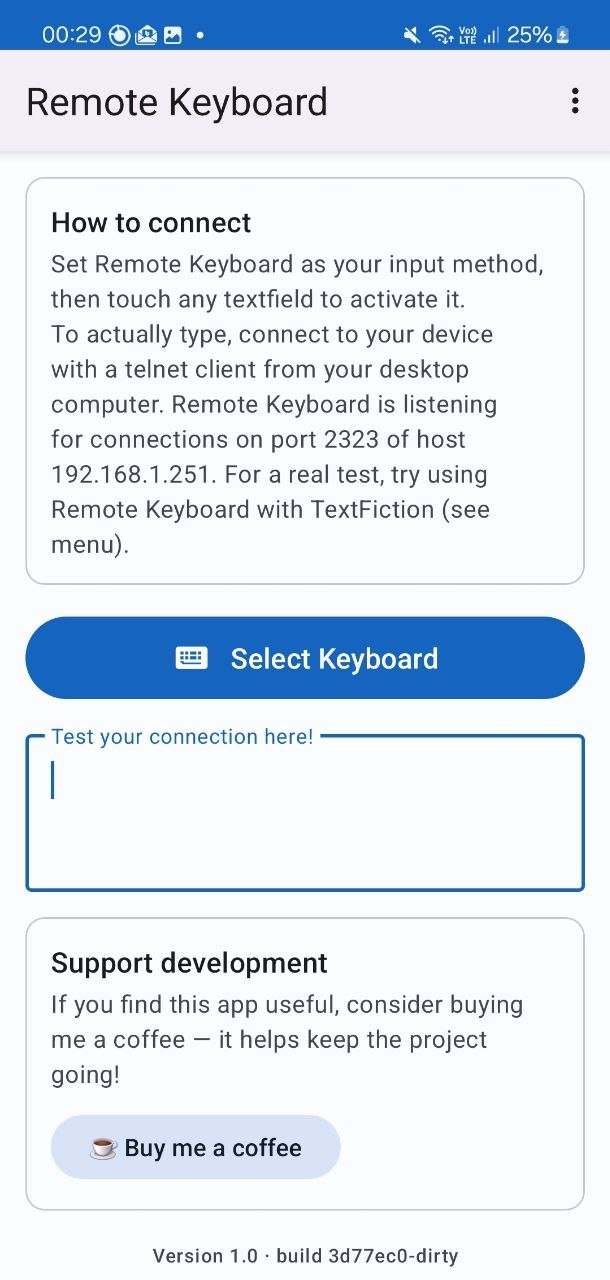
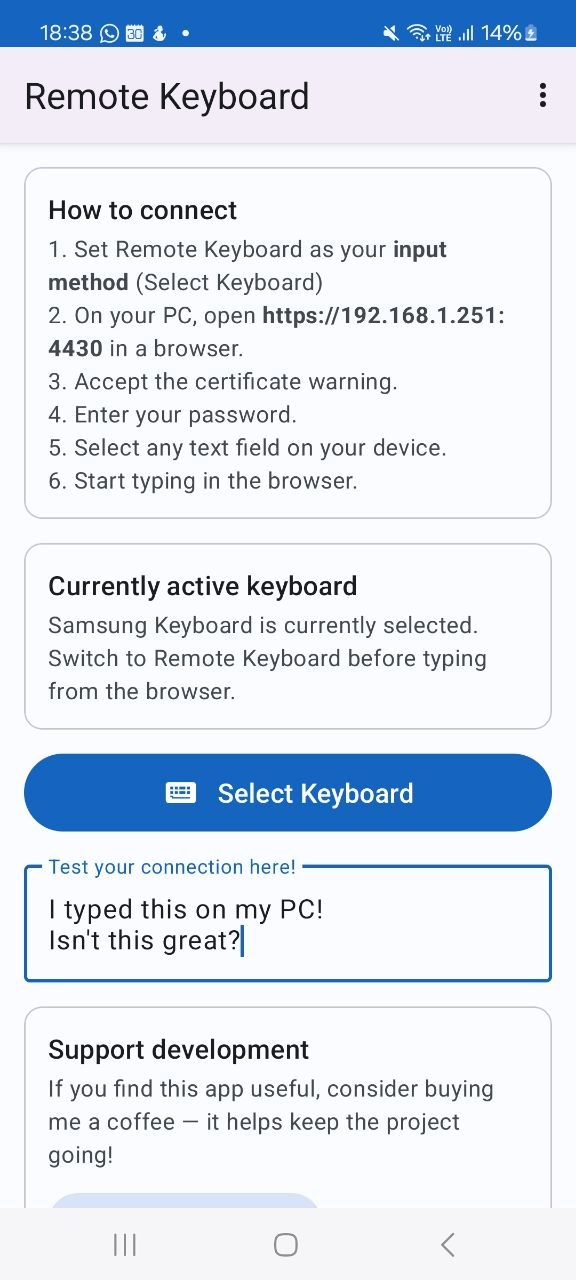
Update README and USER_GUIDE for 0.3.0: add web UI screenshot, update install instructions

diff --git a/USER_GUIDE.md b/USER_GUIDE.md
@@ -10,6 +10,14 @@ PC keyboard → Wi-Fi (HTTPS) → Android web server → input method (keyboard)
 
 The connection uses HTTPS, thus your keystrokes are encrypted on the local network, nobody can see what you're typing. The browser will show a certificate warning on the first visit; this is normal for a local self-signed certificate and you can safely proceed.
 
+### Screenshots
+
+| | | |
+|---|---|---|
+| ![Main screen](main-screen.jpg) | ![Keyboard selection](keyboard-selection.jpg) | ![Web UI](web-ui.png) |
+
+---
+
 ---
 
 ## Requirements
@@ -22,9 +30,9 @@ The connection uses HTTPS, thus your keystrokes are encrypted on the local netwo
 
 ## Installation
 
-### Option 1 — Download from GitHub Actions
+### Option 1 — Download from GitHub
 
-Open the [Releases](https://github.com/caco3/remotekeyboard/releases), click the latest release, and download the `app-release.apk` artifact.
+Open the [Releases](https://github.com/caco3/remotekeyboard/releases), click the latest release, and download the `RemoteKeyboard-v0.3.0.apk` artifact.
 
 ### Option 2 — Build from source
 
@@ -36,7 +44,7 @@ See [Building](README.md#building) in the project README.
 
 ### 1. Install the APK
 
-Transfer `app-release.apk` to your phone and install it. You must allow installation from unknown sources:
+Transfer `RemoteKeyboard-v0.3.0.apk` to your phone and install it. You must allow installation from unknown sources:
 
 - **Android 8+**: Settings → Apps → Special app access → Install unknown apps
 - **Android 7 and older**: Settings → Security → Unknown sources
@@ -60,7 +68,7 @@ Whenever a text field is focused, switch to Remote Keyboard:
 - Tap the **keyboard icon** in the navigation bar, or
 - Long-press the **space bar** on most keyboards and select **Remote Keyboard**
 
-### 4. Set a password (enforced)
+### 4. Set a password
 
 The app will ask you to set a password on the first launch. **This is mandatory.** Without a password, anyone on your local network could connect. You can change it later in the app menu → **Settings** → **Password**.
 
@@ -78,14 +86,13 @@ The app will ask you to set a password on the first launch. **This is mandatory.
 
 1. Open your web browser
 2. Navigate to **`https://<PHONE_IP>:4430`**
-   - If you forget the `https://` prefix, the server detects plain HTTP on port 4430 and automatically redirects you to the HTTPS URL.
-3. Accept the self-signed certificate warning (first time only)
+3. Accept the self-signed certificate warning
 4. Enter your password on the login page
 5. Start typing in the web page — every keystroke is sent to your phone in real time. **Nothing is echoed in the browser** — that is by design; watch your phone to see the typed text.
 
 ### On-screen toolbar
 
-The web client has a clickable toolbar for special keys that are awkward to send from a PC keyboard (or impossible on a mobile browser):
+The web client has a clickable toolbar for special keys:
 
 `Esc` `Tab` `Enter` `⌫ Backspace` `Del` · `← ↑ ↓ →` · `Home` `End` `PgUp` `PgDn` · `Ctrl+A` `Ctrl+C` `Ctrl+V` `Ctrl+X` · `F1`–`F12`
 

diff --git a/README.md b/README.md
@@ -4,9 +4,9 @@ An Android input method that lets you type on your phone from your PC keyboard o
 
 This is a fork of [Lepidos/remotekeyboard](https://github.com/Lepidos/remotekeyboard), which itself is a modernised fork of the original [onyxbits/remotekeyboard](https://github.com/onyxbits/remotekeyboard).
 
-| | |
-|---|---|
-| ![Main screen](main-screen.jpg) | ![Keyboard selection](keyboard-selection.jpg) |
+| | | |
+|---|---|---|
+| ![Main screen](main-screen.jpg) | ![Keyboard selection](keyboard-selection.jpg) | ![Web UI](web-ui.png) |
 
 ---
 
@@ -31,7 +31,6 @@ This is a fork of [Lepidos/remotekeyboard](https://github.com/Lepidos/remotekeyb
 
 - Type from your PC keyboard into any Android text field over a secure HTTPS web client
 - Zero install on the PC — just open `https://<phone-ip>:4430` in any browser
-- Single port (4430) handles both HTTPS and a 301 redirect for plain HTTP — forgetting `https://` still works
 - Mandatory password (enforced on first launch) + session tokens
 - Clickable on-screen toolbar in the web UI (Esc, Tab, Enter, Backspace, Delete, arrows, Home/End, PgUp/PgDn, Ctrl+A/C/V/X, F1–F12)
 - Text replacement / macro system
@@ -139,4 +138,4 @@ Apache 2.0 — see [LICENSE](LICENSE)
 
 Original work © onyxbits  
 Modernisation © Lepidos  
-Modernisation © caco3
+Replacement of Telnet, enhancements © caco3
